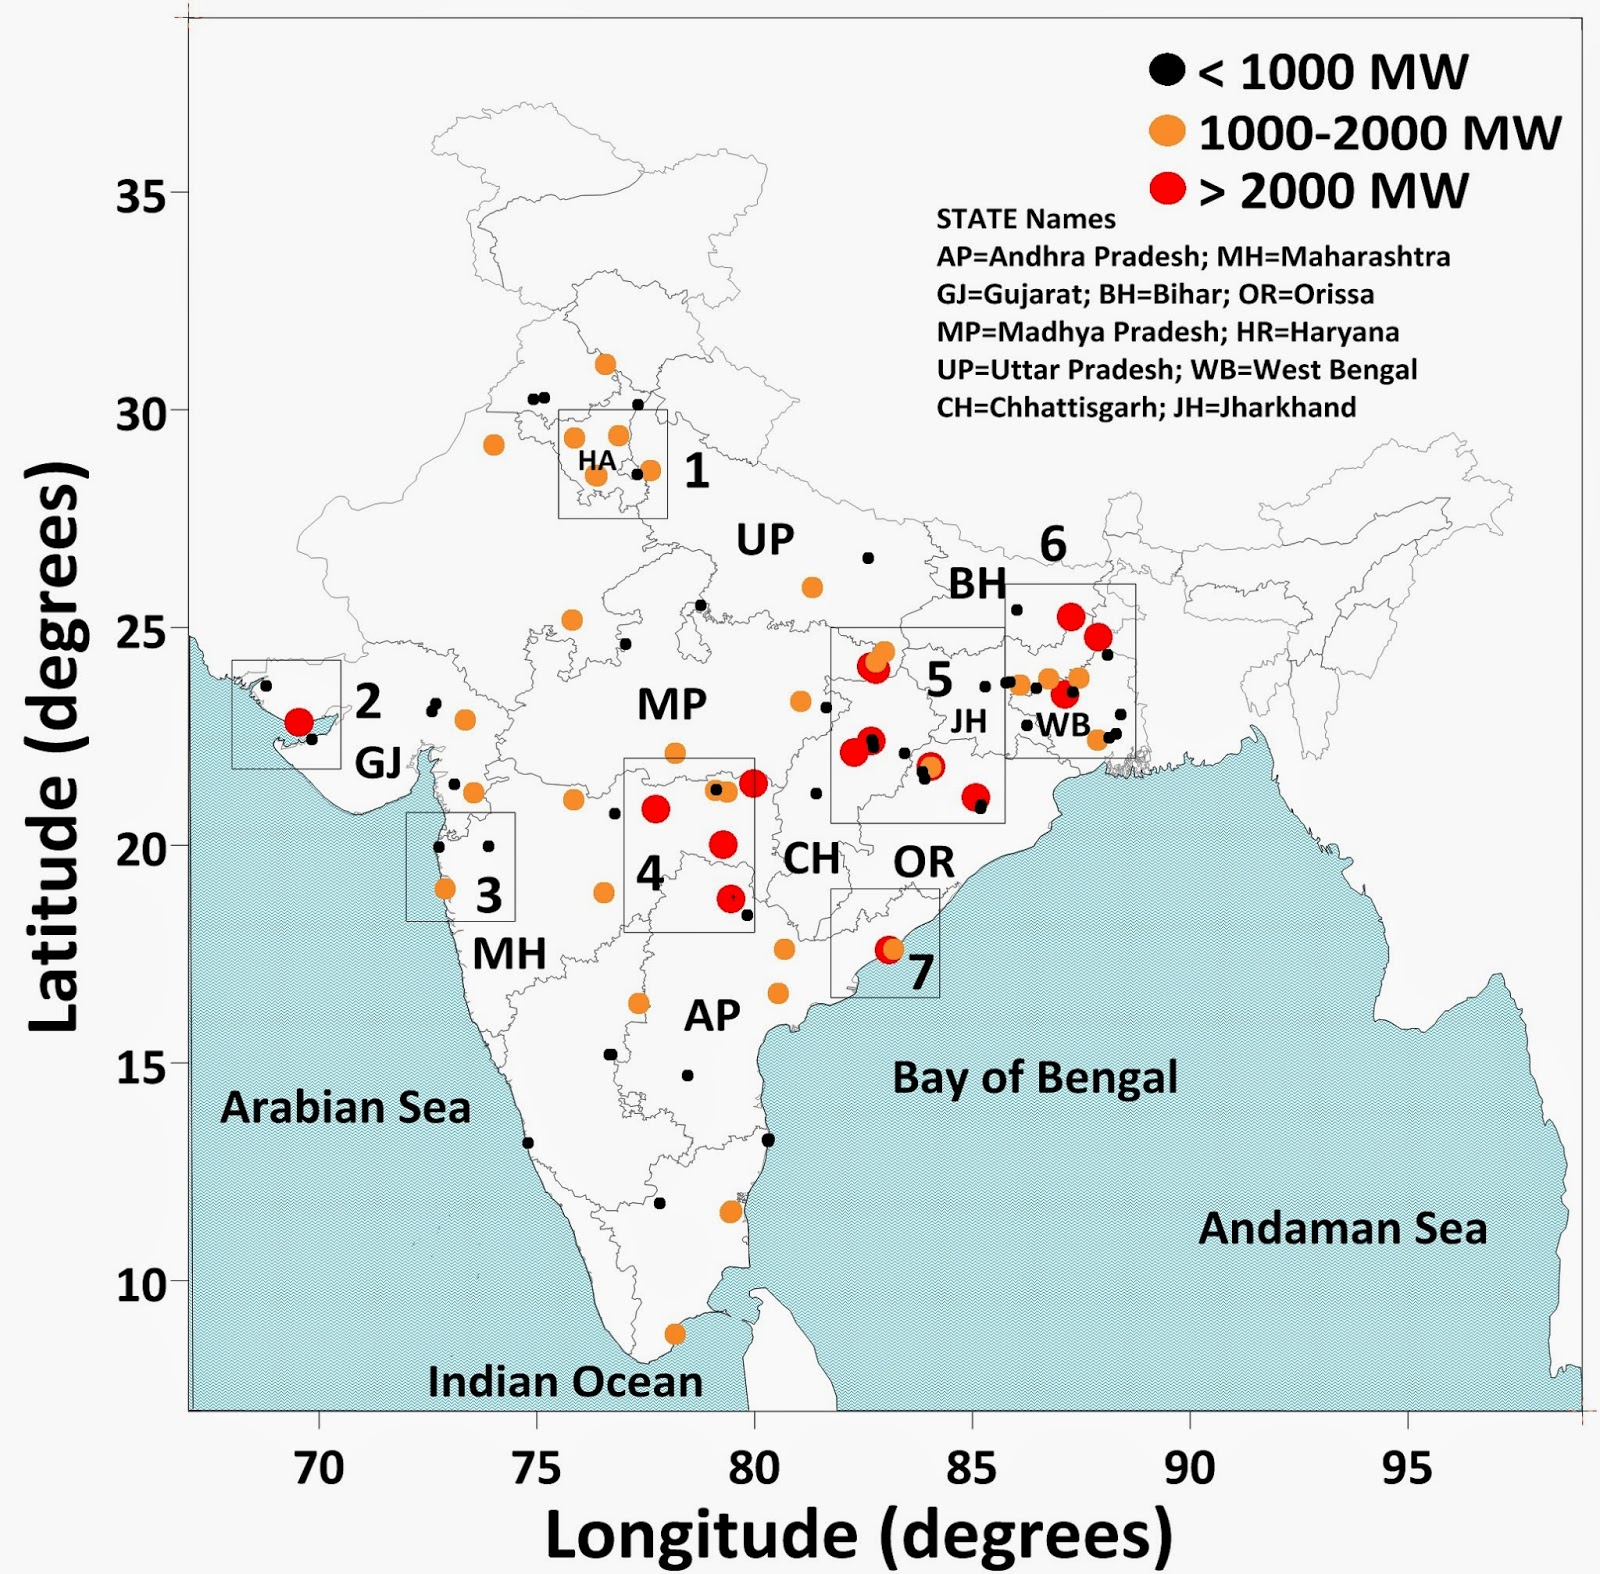
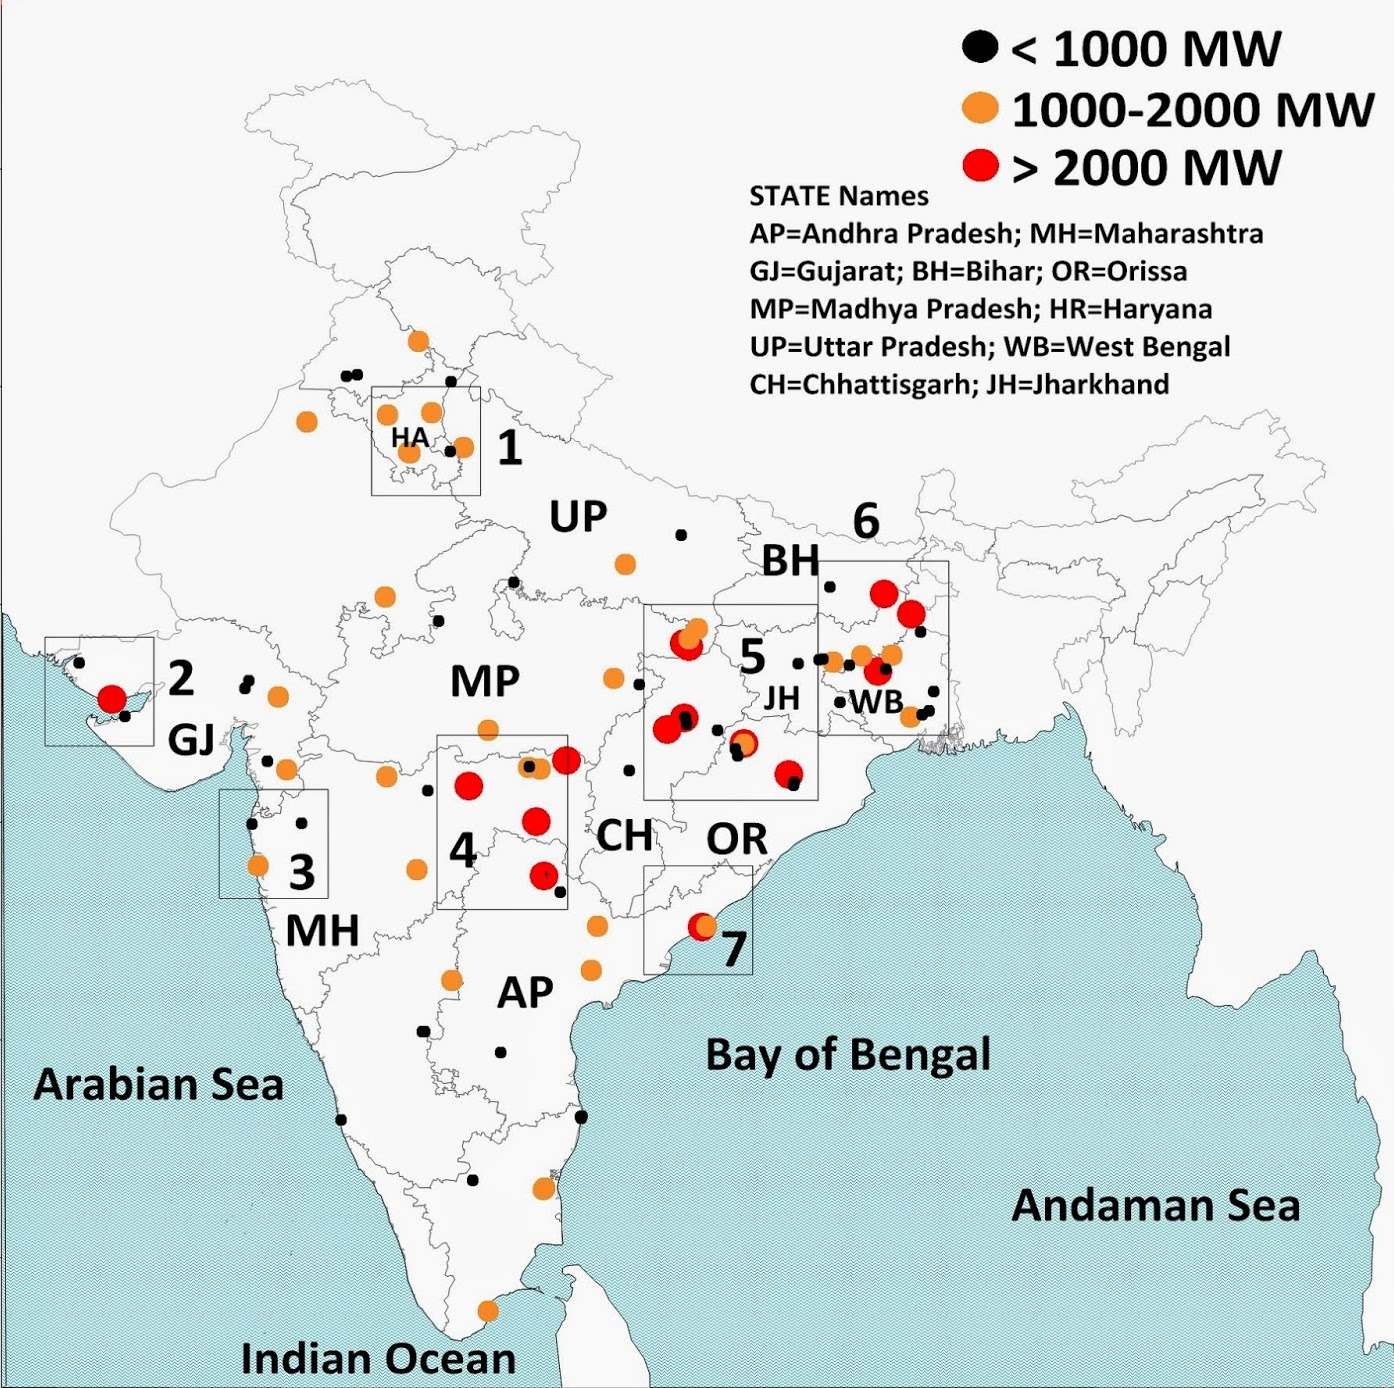
edit coal slides

diff --git a/2021-feb/mmeng-gridpath-india.html b/2021-feb/mmeng-gridpath-india.html
@@ -4,8 +4,8 @@
     <title>Modeling high renewable energy scenarios for India’s electricity sector</title>
     <meta charset="utf-8" />
     <meta name="author" content="Meas Meng’s Monday Morning Meeting (MMMMM? M5?) Presentation" />
-    <link href="libs/remark-css-0.0.1/default.css" rel="stylesheet" />
-    <link href="libs/remark-css-0.0.1/metropolis-fonts.css" rel="stylesheet" />
+    <link href="libs/remark-css/default.css" rel="stylesheet" />
+    <link href="libs/remark-css/metropolis-fonts.css" rel="stylesheet" />
     <link rel="stylesheet" href="libs/emlab.css" type="text/css" />
   </head>
   <body>
@@ -196,7 +196,13 @@ Transmission capacity will be needed to integrate renewable energy capacity, but
 
 --
 * Coal power plants are concentrated in west-central northern regions of India
-&lt;img src="img/india-coal.jpg" width="45%" style="float:right; padding:5px" /&gt;
+&lt;div style= "position: relative; left: 50px; float: left;"&gt;
+&lt;img src="img/india-grid.jpg" width="52%" /&gt;
+&lt;/div&gt;
+
+&lt;div style= "position: relative;"&gt;
+&lt;img src="img/india-coal.jpg" width="27%" /&gt;
+&lt;/div&gt;
 --
 
 * Largest coal reserves are located in eastern and southern regions, so coal plants there are cheaper to operate
